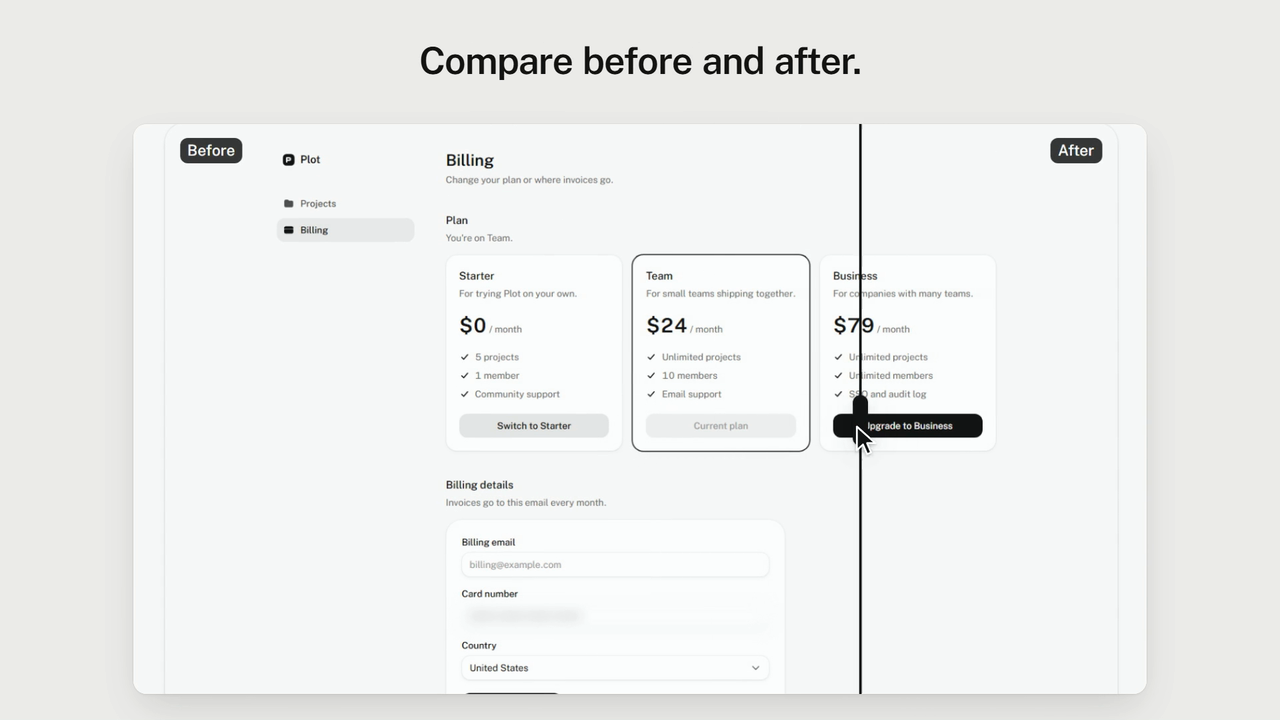
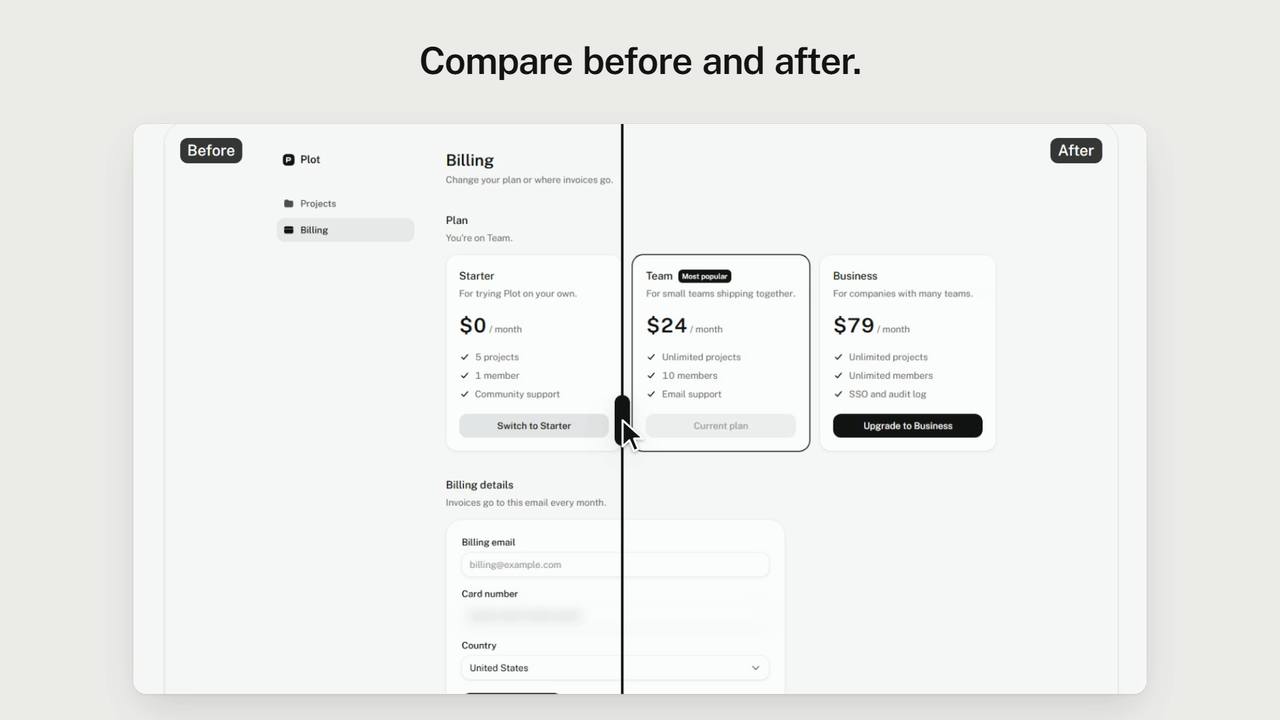
Use a list for features, a straight diagram and fresh screenshots

Changed region(s): [[0.4688, 0.5194, 0.5, 0.6417], [0.6562, 0.55, 0.6875, 0.6417], [0.5312, 0.3667, 0.5938, 0.3972]]

diff --git a/README.md b/README.md
@@ -28,24 +28,17 @@ and posts a short "what changed" note to the PR and Slack. Reviewers watch the c
 
 ## What you get on every PR
 
-| | |
-| --- | --- |
-| 🎬 **A video of each affected flow** | Reeldiff clicks through the flow in a real browser and records it, with step markers and captions. |
-| ↔ **Before and after** | Each step is screenshot on both deployments and pixel-diffed. A slider shows exactly what moved. |
-| 🖱 **A clickable demo** | "Try it" rebuilds the page from DOM snapshots, so reviewers can click through without running anything. |
-| 📝 **A plain-words summary** | One model call describes the visible change. Without a model key you still get a plain summary. |
-| 🔕 **No noise** | Only flows touched by the diff run, and if nothing looks different, nobody gets pinged. |
+- 🎬 **A video of each affected flow.** Reeldiff clicks through it in a real browser and records it, with step markers and captions.
+- ↔ **Before and after.** Each step is captured on both versions and pixel-diffed. A slider shows exactly what moved.
+- 🖱 **A clickable demo.** "Try it" rebuilds the page from DOM snapshots, so reviewers can click through without running anything.
+- 📝 **A plain-words summary.** One model call describes the visible change. Without a model key you still get a plain summary.
+- 🔕 **No noise.** Only flows touched by the diff run, and if nothing looks different, nobody gets pinged.
 
 ## How it works
 
 ```mermaid
 flowchart LR
-    A[Pull request] --> B[Find affected flows]
-    B --> C[Replay in Chromium<br/>record video]
-    C --> D[Compare with<br/>the base version]
-    D --> E[Summarize]
-    E --> F[PR comment<br/>and Slack]
-    E --> G[Replay page]
+    A[Pull request] --> B[Find affected<br/>flows] --> C[Replay and<br/>record video] --> D[Compare with<br/>the base] --> E[Summarize] --> F[Post to the PR<br/>and Slack]
 ```
 
 1. **Flows live in your repo.** A flow is a short YAML file: steps like "click New project", plus `covers` globs that link it to the source files it exercises.
